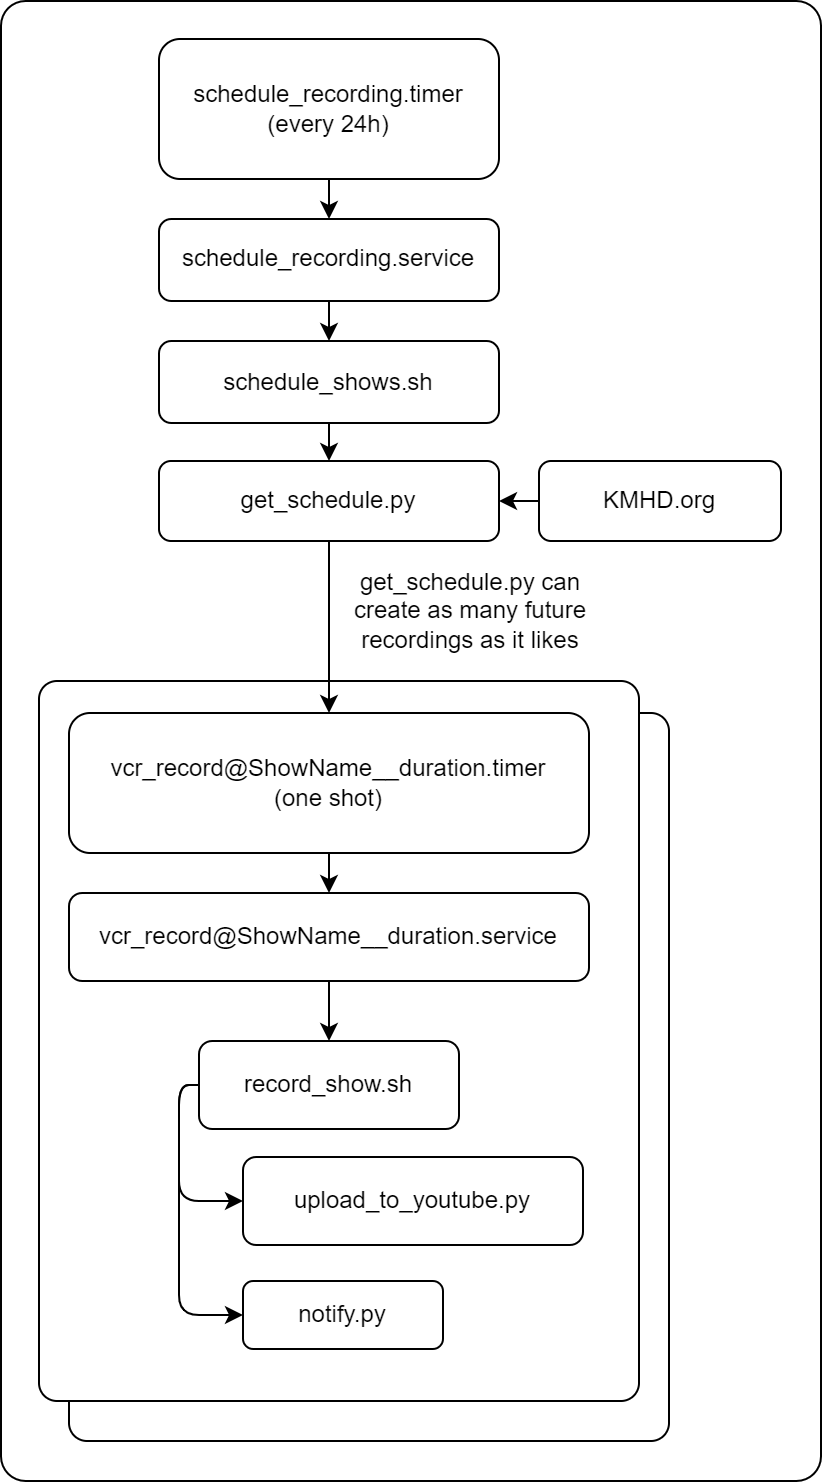
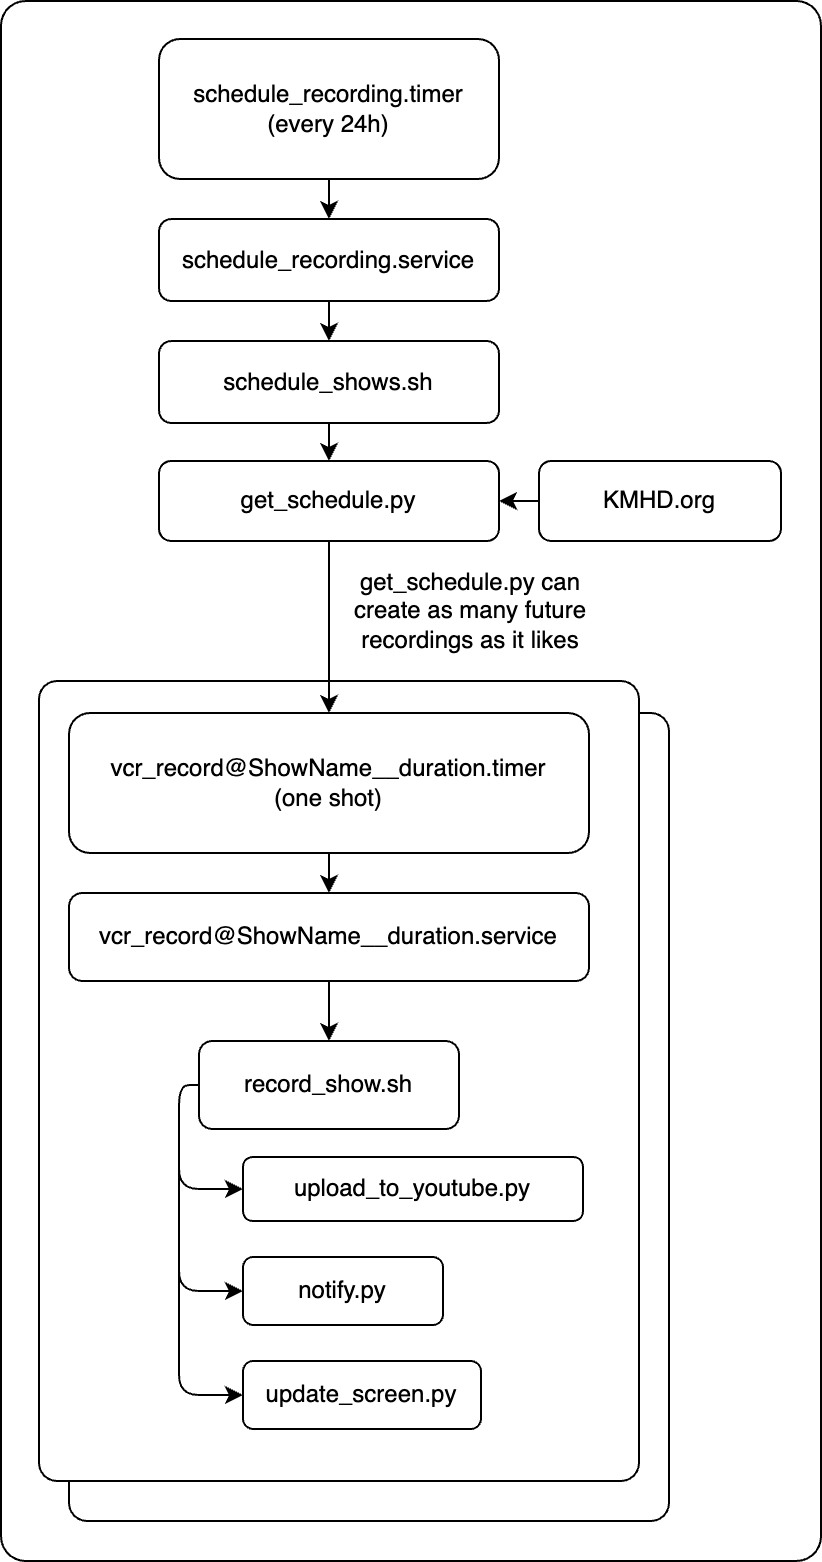
Cleanup docs for screen update

diff --git a/update_screen.py b/update_screen.py
@@ -22,7 +22,7 @@ except NotImplementedError:
 def disp_on_air(args):
     print(f"Change display: On now: {args.SHOW}")
 
-    img = Image.open("kmhd_test.png")
+    img = Image.open("kmhd_bg.png")
     draw = ImageDraw.Draw(img)
 
     show_x = 31

diff --git a/README.md b/README.md
@@ -5,7 +5,7 @@ Do you listen to [KMHD](https://www.kmhd.org/give/) on an analog radio at home a
 
 Well then you must be me! Which is good because this code isn't portable and I'm only uploading it here in case my pi gets fried or something.
 
-<img src="doc/P_20241218_225835.jpg" width=300> <img src="doc/P_20241218_225603.jpg" width=300>
+<img src="doc/inkypi.jpg" width=600>
 
 ### After upload: 
 _Note: battery percentage was exactly 89.1% ;)_ <br>
@@ -20,15 +20,16 @@ Execution flow:
  * the timer triggers `schedule_recording.service` to run `schedule_shows.sh`
  * `schedule_shows.sh` runs the python script `get_schedule.py` using the project virtual environment and passes all its output to bash to run as commands
  * `get_schedule.py` outputs one command per line of the form `sytemd-run --user --on-calendar ... --unit vcr_record@Title__123.service`
- * the `vcr_record@.service` runs `record_show.sh` which makes the recording and uploads it to Youtube Music
+ * the `vcr_record@.service` runs `record_show.sh` which makes the recording and uploads it to Youtube Music and keeps the screen up to date
 
 ## Flow Control
 <img src="doc/diagram.png" width=300>
 
 # Hardware
 
-* [Raspberry Pi 5](https://www.raspberrypi.com/products/raspberry-pi-5/)
-  * Any linux machine will work
+* [Raspberry Pi Zero W](https://www.raspberrypi.com/products/raspberry-pi-zero-w/)
+  * For compactness and compatibility with the screen
+* [Pimoroni Inky pHAT](https://shop.pimoroni.com/products/inky-phat?variant=12549254905939)
 * [Behringer UCA202](https://www.behringer.com/product.html?modelCode=0805-AAC)
   * Any audio input will work, I chose this because I needed RCA inputs
 
